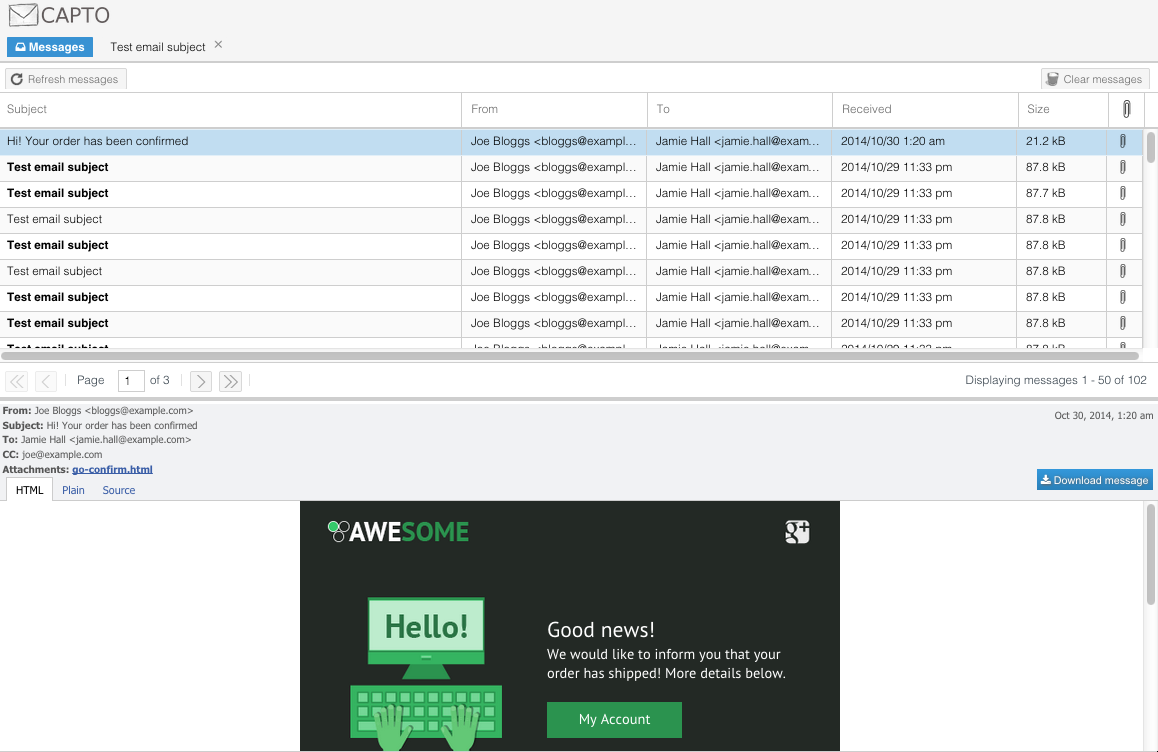
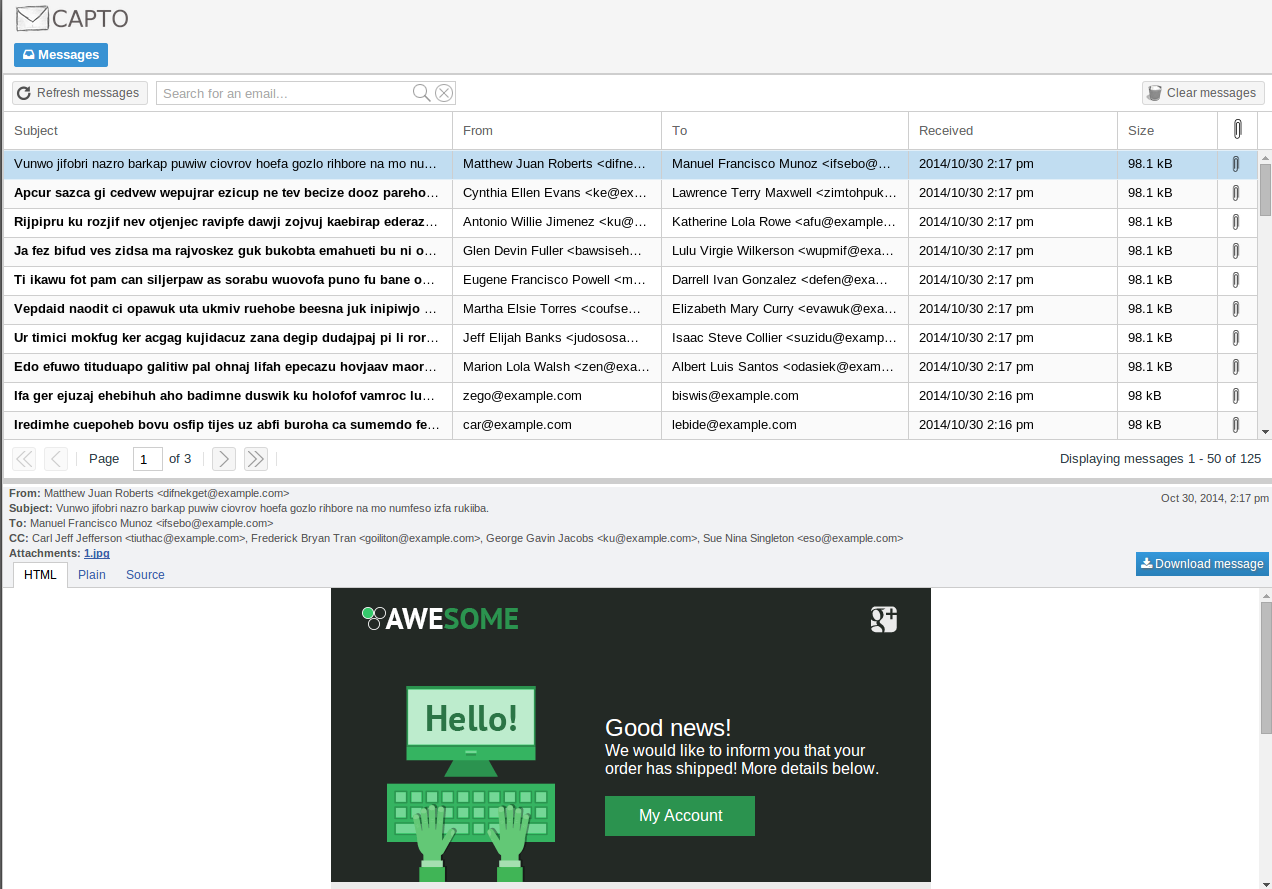
added new screenshot

diff --git a/test/email.js b/test/email.js
@@ -1,19 +1,28 @@
 var nodemailer = require('nodemailer');
 var smtpTransport = require('nodemailer-smtp-transport');
 var path = require('path');
+var Chance = require('chance');
+var chance = new Chance();
+var fs = require('fs');
+var _ = require('lodash');
 var transporter = nodemailer.createTransport(smtpTransport({
   host: 'localhost',
   port: 9025,
   ignoreTLS: true
 }));
-for (i = 0; i <= 100; i++) {
+/**
+ * Generate some random emails
+ */
+for (i = 0; i <= 1; i++) {
   transporter.sendMail({
-    from: 'Joe Bloggs <bloggs@example.com>',
-    to: 'Jamie Hall <jamie.hall@example.com>',
-    subject: 'Test email subject',
-    text: 'Test email plain text',
-    cc: ['joe@example.com'],
-    html: '<h1>Jamie</h1>',
+    from: chance.name({ middle: true }) + '<' + chance.email({domain: "example.com"}) + '>',
+    to: chance.name({ middle: true }) + '<' + chance.email({domain: "example.com"}) + '>',
+    subject: chance.sentence(),
+    text: chance.paragraph({sentences: 1}),
+    cc: _.map([1,3,3,4], function() {
+        return chance.name({ middle: true }) + '<' + chance.email({domain: "example.com"}) + '>';
+    }),
+    html: fs.readFileSync(path.resolve(__dirname, 'resources/templates/go-confirm.html')),
     attachments: [
       {
         path: path.resolve(__dirname, 'resources/attachments/1.jpg')
